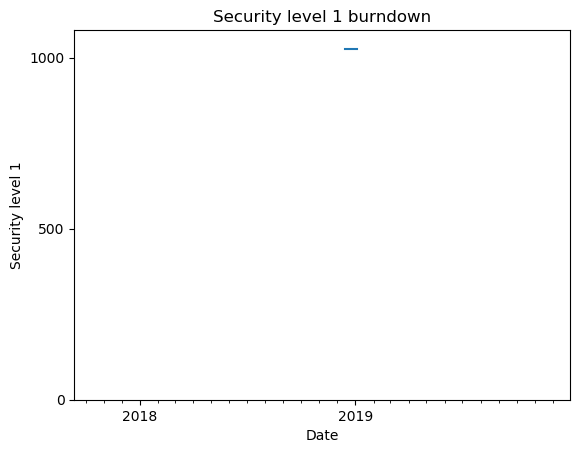
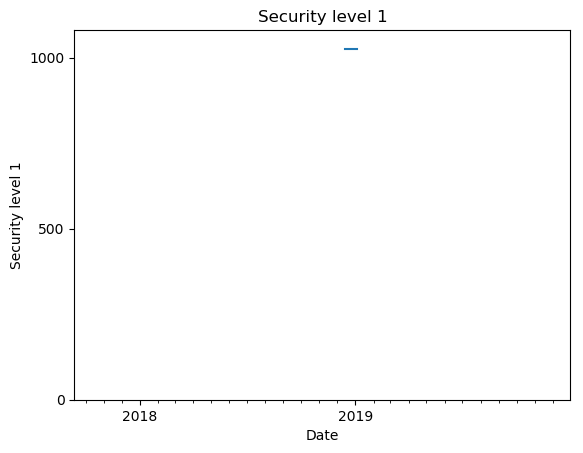
Change order rows in table

Changed region(s): [[0.3705, 0.0, 0.741, 0.0618]]

diff --git a/QualityImprovementMonitor/mainView.py b/QualityImprovementMonitor/mainView.py
@@ -97,9 +97,9 @@ class MainView:
         label_table = Label(label_content, style="Background.TLabel")
         label_table.grid(row=4, column=1, columnspan=3)
 
-        label_table_row_header_1 = Label(label_table, text="Wrong warning level", style="TableRowHeader.TLabel")
-        label_table_row_header_1.grid(row=2, column=1)
         label_table_row_header_1 = Label(label_table, text="Treat warnings not as errors", style="TableRowHeader.TLabel")
+        label_table_row_header_1.grid(row=2, column=1)
+        label_table_row_header_1 = Label(label_table, text="Wrong warning level", style="TableRowHeader.TLabel")
         label_table_row_header_1.grid(row=3, column=1)
         label_table_row_header_2 = Label(label_table, text="Suppressed warnings", style="TableRowHeader.TLabel")
         label_table_row_header_2.grid(row=4, column=1)
@@ -134,15 +134,15 @@ class MainView:
             else:
                 label_table_column_header.configure(text="Total")
 
-            # wrong warning level
-            label_wrong_warning_level_data = Label(label_table, text="0", style="TableCellValueUnchanged.TLabel")
-            label_wrong_warning_level_data.grid(row=2, column=current_column)
-            self.labels_wrong_warning_level_data.append(label_wrong_warning_level_data)
-
             # treat warnings not as errors
             label_treat_warnings_not_as_errors_data = Label(label_table, text="0", style="TableCellValueUnchanged.TLabel")
-            label_treat_warnings_not_as_errors_data.grid(row=3, column=current_column)
+            label_treat_warnings_not_as_errors_data.grid(row=2, column=current_column)
             self.labels_treat_warnings_not_as_errors_data.append(label_treat_warnings_not_as_errors_data)
+
+            # wrong warning level
+            label_wrong_warning_level_data = Label(label_table, text="0", style="TableCellValueUnchanged.TLabel")
+            label_wrong_warning_level_data.grid(row=3, column=current_column)
+            self.labels_wrong_warning_level_data.append(label_wrong_warning_level_data)
 
             # suppressed warnings
             label_suppressed_warnings_data = Label(label_table, text="0", style="TableCellValueUnchanged.TLabel")
@@ -264,7 +264,7 @@ class MainView:
         # plot labels
         plt.xlabel('Date')
         plt.ylabel(worksheet_name)
-        plt.title(worksheet_name + ' burndown')
+        plt.title(worksheet_name)
 
         # plot ticks
         years = mdates.YearLocator()  # every year
